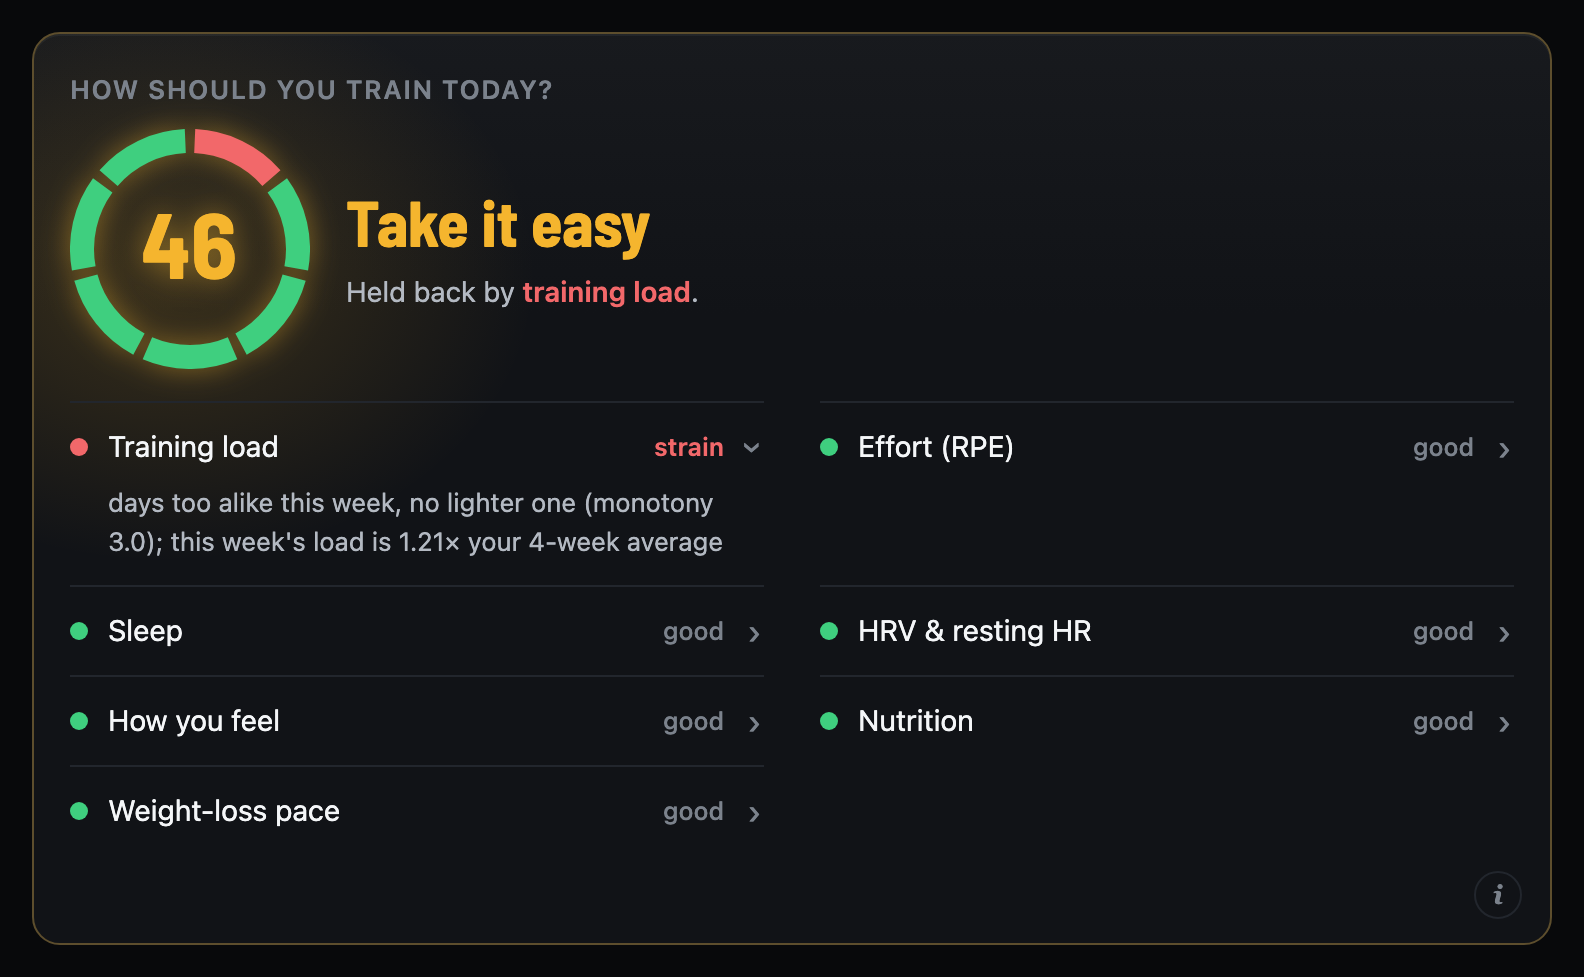
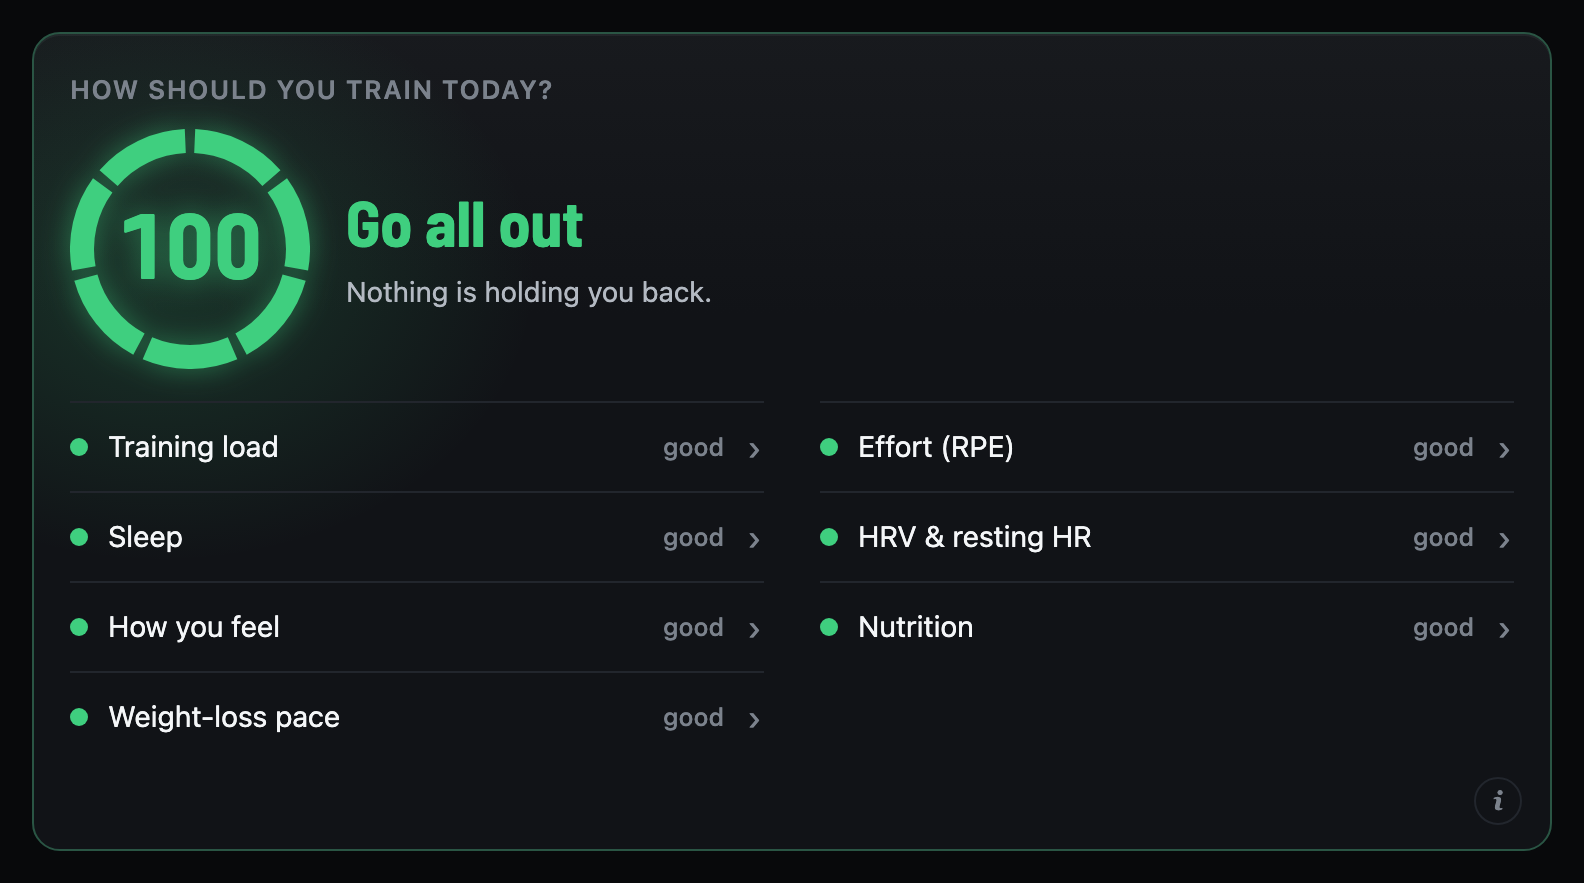
Retake the README screenshots with training load from hard sets
With load measured in Hevy hard sets, the demo person's day reads "Go all out, 100" rather
than "Take it easy, 46", and the example answers read for an all-clear day. The screenshots
are retaken to match, and the readiness alt text no longer quotes a score that changes.

diff --git a/README.md b/README.md
@@ -31,7 +31,7 @@ wakes up.
 - **Ask EsteBot.** Claude answers questions about your data from EsteBot's own numbers. The
   algorithms decide; the AI explains.
 
-<img src="docs/screenshots/verdict.png" alt="Today's call: a readiness score of 46 in a ring of seven signals, held back by training load" width="720">
+<img src="docs/screenshots/verdict.png" alt="Today's call: a 0–100 readiness score in a ring of seven signals, each good, watch or strain" width="720">
 
 <img src="docs/screenshots/session.png" alt="Today's session with a target for every exercise" width="720">
 
